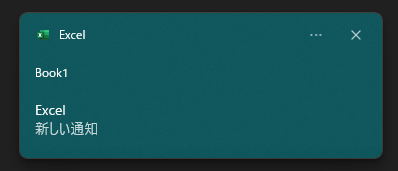
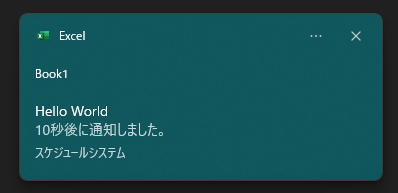
単純な通知方法の説明を修正

diff --git a/README.md b/README.md
@@ -871,28 +871,69 @@ End Sub
 
 
 # メソッド説明
-## GenerateCmd_ToastNotifierShow
+## 単純な通知
+### GenerateCmd_ToastNotifierShow
 引数に渡された値で、単純なトースト通知を表示するコマンド文字列を返します。指定日時に通知するスケジュール機能も対応します<br>
-Shell関数と併用して使用して下さい。Windows PowerShell環境があれば、どのWindows マシンでも動作が可能です。
+コマンド文字列を返すため、Shell関数と併用して使用して下さい。Windows PowerShell環境があれば、Windows 10 以降のどのPCでも動作が可能です。
 
 | 引数                                                                                                                                                         | 意味                                                                                 | 型         | 既定値       | 
 | ------------------------------------------------------------------------------------------------------------------------------------------------------------ | ------------------------------------------------------------------------------------ | ---------- | ------------ | 
-| [ToastTag](https://learn.microsoft.com/ja-jp/uwp/api/windows.ui.notifications.toastnotification.tag)                                                         | 通知 グループ内のこの通知の一意識別子を取得または設定します。                        | 文字列     | ※必須項目   | 
-| [CollectionID](https://learn.microsoft.com/ja-jp/uwp/api/windows.ui.notifications.toastnotificationmanagerforuser.gettoastnotifierfortoastcollectionidasync) | 送信する通知グループの ID。                                                          | 文字列     | vbnullstring | 
-| [ScheduleDate](https://learn.microsoft.com/ja-jp/uwp/api/windows.ui.notifications.scheduledtoastnotification.-ctor)                                          | Windows でトースト通知を表示する日付と時刻。                                         | シリアル値 | 0            | 
-| [ExpirationDate](https://learn.microsoft.com/ja-jp/uwp/api/windows.ui.notifications.scheduledtoastnotification.expirationtime)                               | 通知の有効期限。                                                                     | シリアル値 | 0            | 
+| [ToastTag](https://learn.microsoft.com/ja-jp/uwp/api/windows.ui.notifications.toastnotification.tag)                                                         | グループ内のこの通知の一意識別子を設定します。                        | 文字列     | ※必須項目   | 
+| [CollectionID](https://learn.microsoft.com/ja-jp/uwp/api/windows.ui.notifications.toastnotificationmanagerforuser.gettoastnotifierfortoastcollectionidasync) | 送信する通知コレクションのID。                                                          | 文字列     | vbnullstring | 
+| [ScheduleDate](https://learn.microsoft.com/ja-jp/uwp/api/windows.ui.notifications.scheduledtoastnotification.-ctor)                                          | Windows でトースト通知を表示する日付と時刻。<br>設定日時になるまで、トーストは表示されません。<br><br>・過去にするとエラーになります。<br>・省略(0) で、即日通知です。                        | シリアル値 | 0            | 
+| [ExpirationDate](https://learn.microsoft.com/ja-jp/uwp/api/windows.ui.notifications.scheduledtoastnotification.expirationtime)                               | 通知の有効期限。<br>設定日時を超えると、アクションセンターから削除されます。<br><br>・過去にすると、通知が来ません。<br>・省略(0) で、3日後の有効期限になります。これはシステムで決められた[上限](https://learn.microsoft.com/ja-jp/windows/apps/design/shell/tiles-and-notifications/send-local-toast-cpp-uwp?tabs=builder-syntax#set-an-expiration-time)です。                                                                     | シリアル値 | 0            | 
 | [Suppress](https://learn.microsoft.com/ja-jp/uwp/api/windows.ui.notifications.toastnotification.suppresspopup)                                               | トーストのポップアップ UI をユーザーの画面に表示するかどうかを取得または設定します。 | フラグ値   | False        | 
 
-
+#### サンプルコード
+次の例では、10秒後に通知が来ます。
 ```bas
-With New cls_AppNotificationBuilder
-    Shell .GenerateCmd_ToastNotifierShow("NoSetting"), vbHide
-End With
+Sub スケジュールを設定()
+    Dim AppNotification As New cls_AppNotificationBuilder
+    Dim ActionCmd As String
+
+    With AppNotification
+        'メッセージ内容を設定
+        .SetToastContent_TextTitle = "Hello World"
+        .SetToastContent_TextBody = "10秒後に通知しました。"
+        .SetToastContent_TextAttribute = "スケジュールシステム"
+
+        '現在から、10s後に通知するコマンド文字列を生成
+        ActionCmd = .GenerateCmd_ToastNotifierShow("sample", , Now() + #12:00:10 AM#)
+        Debug.Print ActionCmd
+
+        '実行コマンド確認
+        Stop
+
+        '通知表示
+        Shell ActionCmd, vbHide
+    End With
+End Sub
 ```
-なお、上記のように特に事前設定なくとも動作は可能です。この場合は次のように表示されます<br>
+このようなコマンドをShellを介して、実行されます。Stop部分で確認可能です。
+```bat
+powershell -Command "$xml = '<toast><visual><binding template=\"ToastGeneric\"><text>Hello World</text><text>10秒後に通知しました。</text><text placement=\"attribution\">スケジュールシステム</text></binding></visual><header id=\"Book1\" title=\"Book1\" arguments=\"\" activationType=\"protocol\"/></toast>';$XmlDocument = [Windows.Data.Xml.Dom.XmlDocument, Windows.Data.Xml.Dom.XmlDocument, ContentType = WindowsRuntime]::New();$XmlDocument.loadXml($xml);$ToastNotification = [Windows.UI.Notifications.ScheduledToastNotification, Windows.UI.Notifications, ContentType = WindowsRuntime]::New($XmlDocument,'2024/09/21 11:27:02');$ToastNotification.id = 'ExcelSchedule';$ToastNotification.Group = 'Book1';$ToastNotification.Tag = 'sample';$AppId = 'Microsoft.Office.EXCEL.EXE.15';[Windows.UI.Notifications.ToastNotificationManager, Windows.UI.Notifications, ContentType = WindowsRuntime]::CreateToastNotifier($AppId).addToSchedule($ToastNotification)"
+```
+
+整形するとこんな感じです。
+```ps1
+powershell -Command "
+$xml = '<toast><visual><binding template=\"ToastGeneric\"><text>Hello World</text><text>10秒後に通知しました。</text><text placement=\"attribution\">スケジュールシステム</text></binding></visual><header id=\"Book1\" title=\"Book1\" arguments=\"\" activationType=\"protocol\"/></toast>';
+$XmlDocument = [Windows.Data.Xml.Dom.XmlDocument, Windows.Data.Xml.Dom.XmlDocument, ContentType = WindowsRuntime]::New();
+$XmlDocument.loadXml($xml);
+$ToastNotification = [Windows.UI.Notifications.ScheduledToastNotification, Windows.UI.Notifications, ContentType = WindowsRuntime]::New($XmlDocument,'2024/09/21 11:27:02');
+$ToastNotification.id = 'ExcelSchedule';
+$ToastNotification.Group = 'Book1';
+$ToastNotification.Tag = 'sample';
+$AppId = 'Microsoft.Office.EXCEL.EXE.15';
+[Windows.UI.Notifications.ToastNotificationManager, Windows.UI.Notifications, ContentType = WindowsRuntime]::CreateToastNotifier($AppId).addToSchedule($ToastNotification)
+"
+```
+
+10秒経つと、この通知ができます<br>
 ![alt text](doc/ExampleMethod1.png)
 
-## RunDll_ToastNotifierShow
+### RunDll_ToastNotifierShow
 GenerateCmd_ToastNotifierShow と同様の機能です。
 こちらは、DLLファイルを読み込んだときに使う専用メソッドです。パフォーマンスが向上するので使える環境であればこちらがおすすめです。<br>
 引数等は、GenerateCmd_ToastNotifierShow と同じなので省略します。
+
